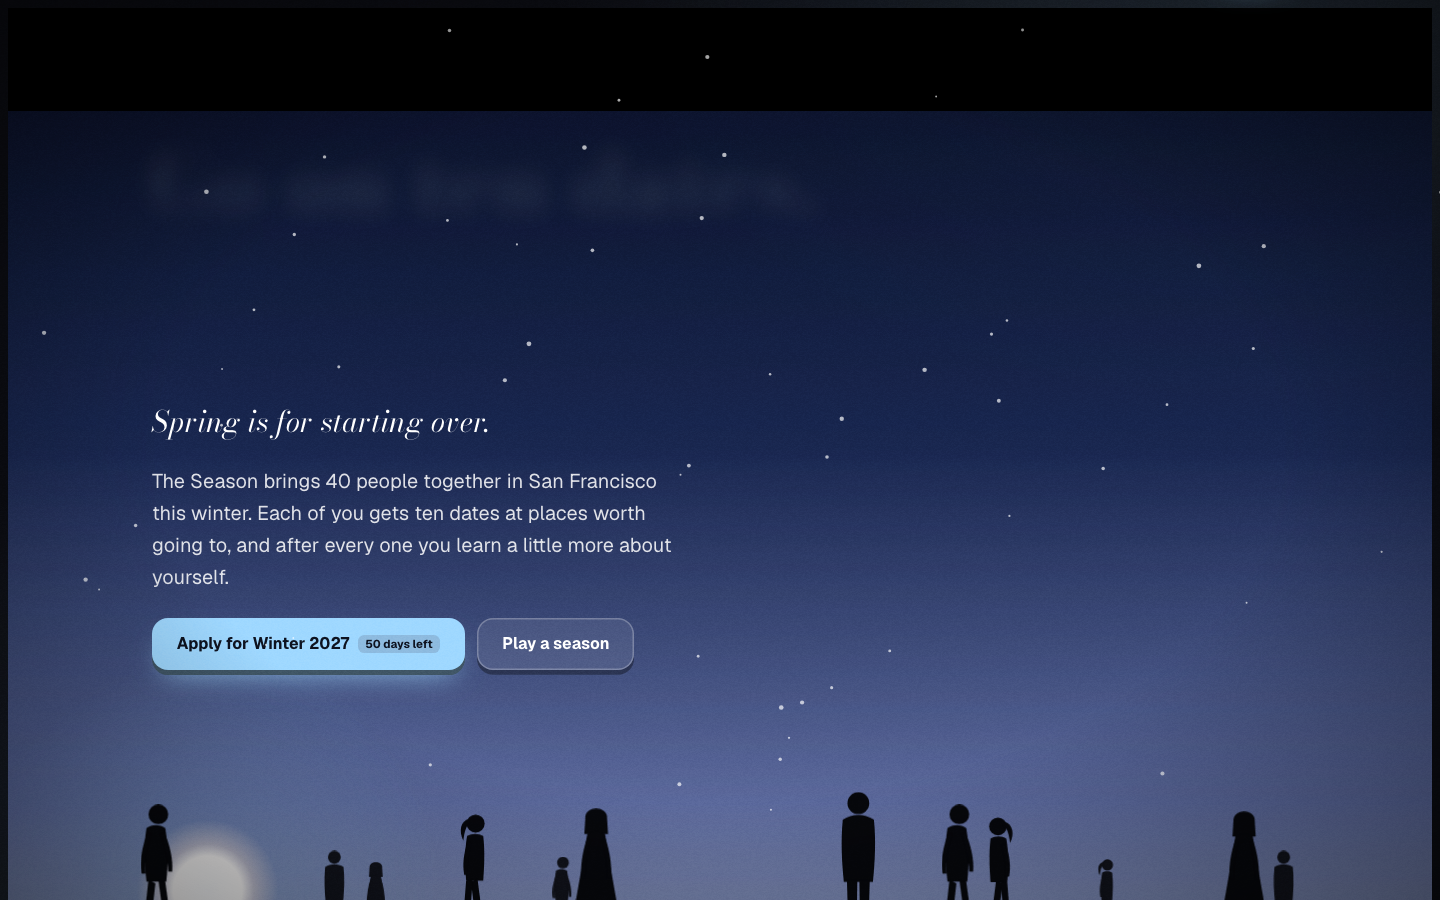
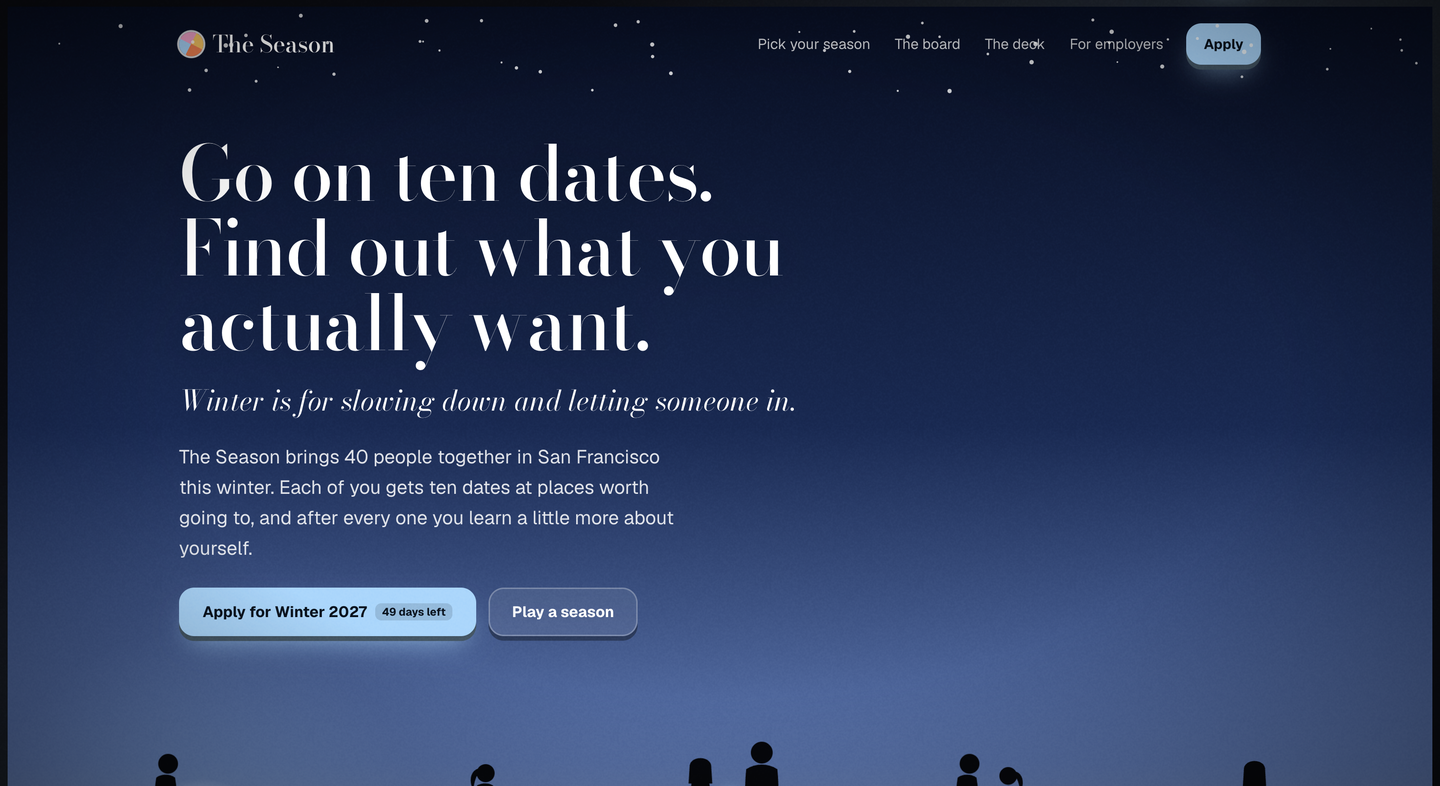
Add Match Lab screenshot, replace The Season screenshot

diff --git a/README.md b/README.md
@@ -66,6 +66,8 @@ Student association at ETH Zürich and the University of Zürich that runs socia
 
 **Live.** [matchlabzh.ch](https://www.matchlabzh.ch)
 
+![Match Lab](img/matchlab.png)
+
 ---
 
 ## Research
